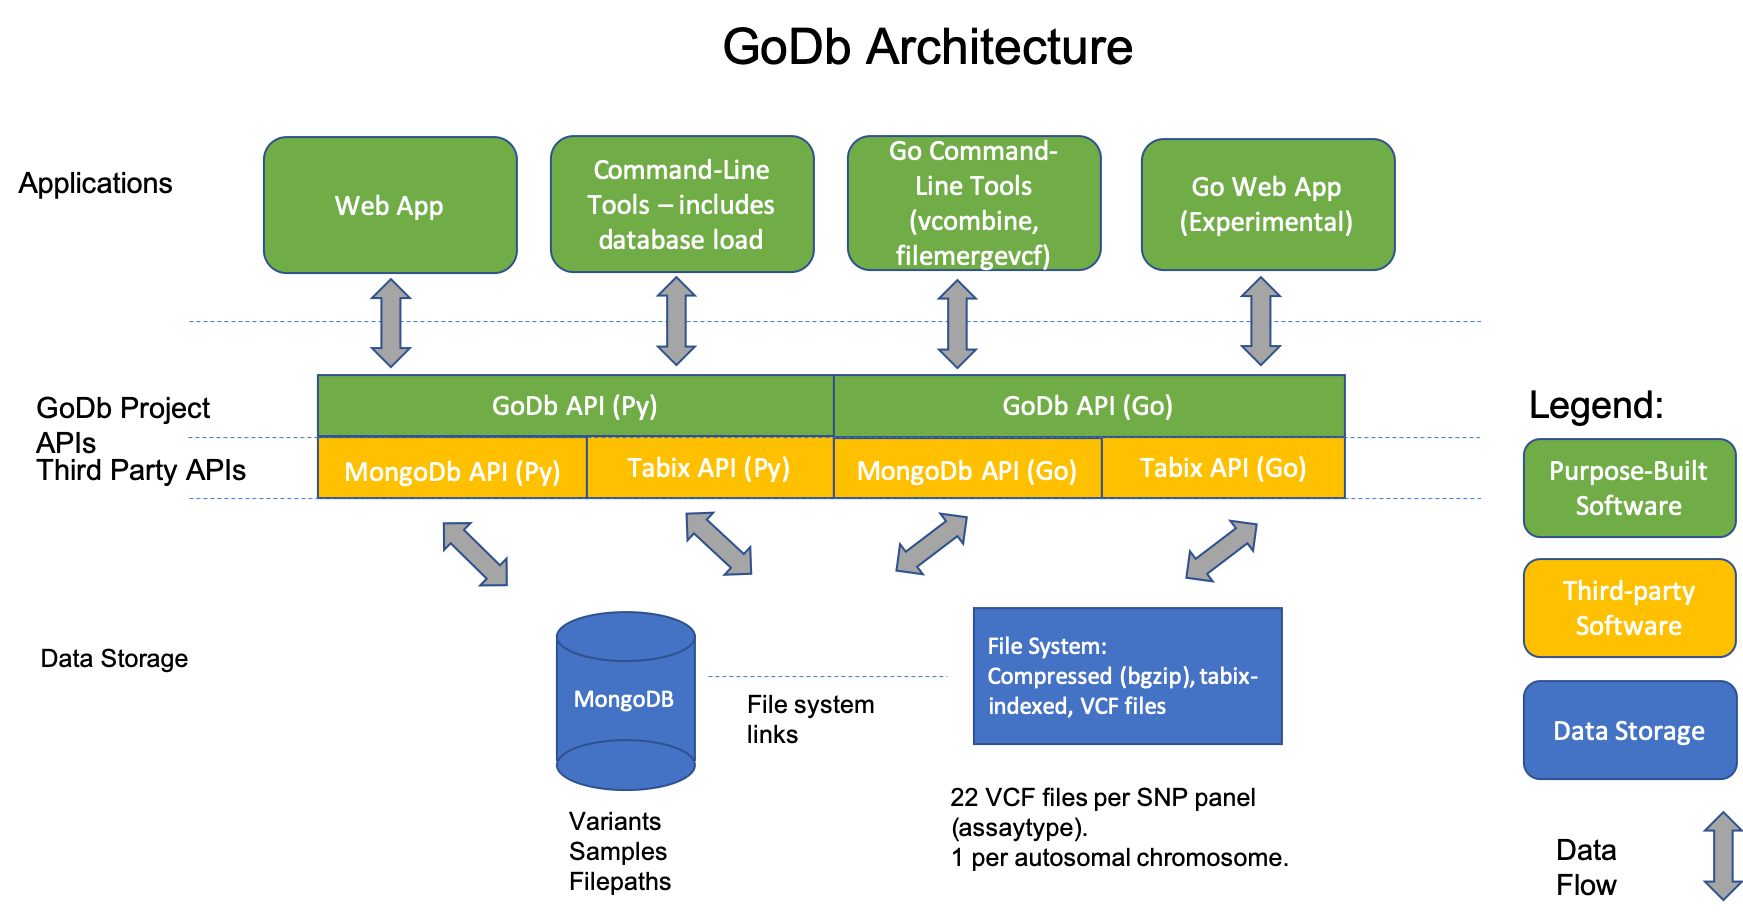
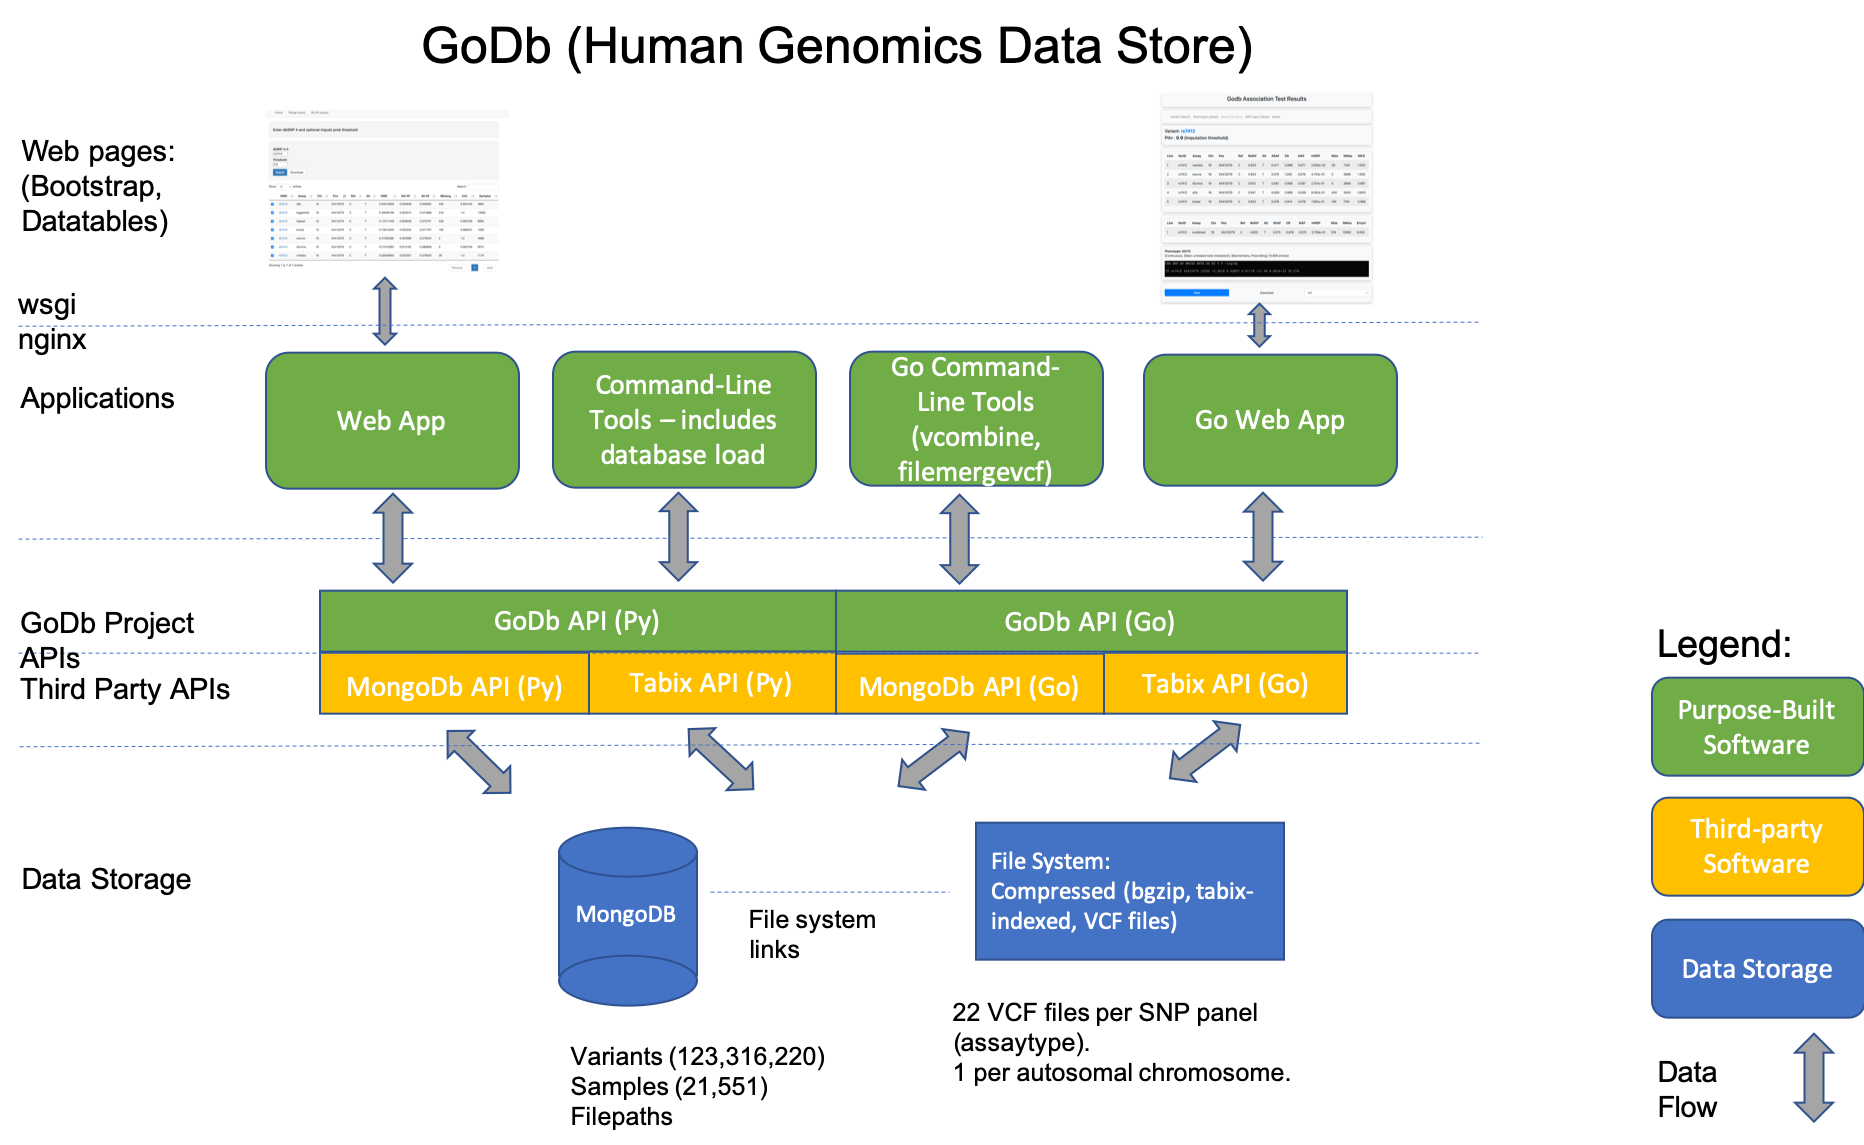
Changes to README

diff --git a/godbassoc/main.go b/godbassoc/main.go
@@ -1,8 +1,10 @@
 //
 // Search / retrieval for a godb instance
-// Also includes single SNP assocation testing And
-// phenotype upload
+// Also includes single SNP assocation testing,
+// phenotype upload, variant list capture and use, GRS
+// input capture and use
 //
+// Author: PD Appleby
 package main
 
 import (

diff --git a/README.md b/README.md
@@ -48,7 +48,7 @@ Repository sub-directories:
 
 - *utils/py/* Python utility code, some of this is not thoroughly tested.
 
-- *utils/sh/* Wrappers for utilities, some strange path names here, not meant for general use 
+- *utils/sh/* Wrappers for utilities, some strange path names here, not meant for general use
 
 - *godbassoc/* Experimental webapp written in Golang, includes code to allow the upload, saving and selection of phenotype files (both binary and continuous) and to make a call-out to PLINK (if installed) for association testing. TODO: use cases and example phenotype data for association testing
 
@@ -132,6 +132,8 @@ filepaths - one document per SNP panel (assaytype):
 ```
 
 ## Dependencies
+- Python 2.7.6 (TODO convert to running under Python 3)
+- Go 1.15.15 (TODO make module changes to allow move to Go 1.17)
 - MongoDb community edition (version 3 upwards, tested to 4.2.1)
 - Tabix (0.2.5)
 - pysam python library (0.15.3)
@@ -147,7 +149,7 @@ Front page displayed by the prototype web-application (golang version)
 ![](images/godb_webapp.jpg)
 
 ## Data Store Architecture
-High-level architecture diagram of the data store and software, showing application level, godb library and third-party library layers.
+High-level architecture diagram of the data store and software, showing application level, godb library and third-party library layers. Note that the Python web application is best run under management of a web-server and the Python WSGI web services gateway interface, the Go web service is stand-alone.
 
 ![](images/godb_architecture.png)
 
